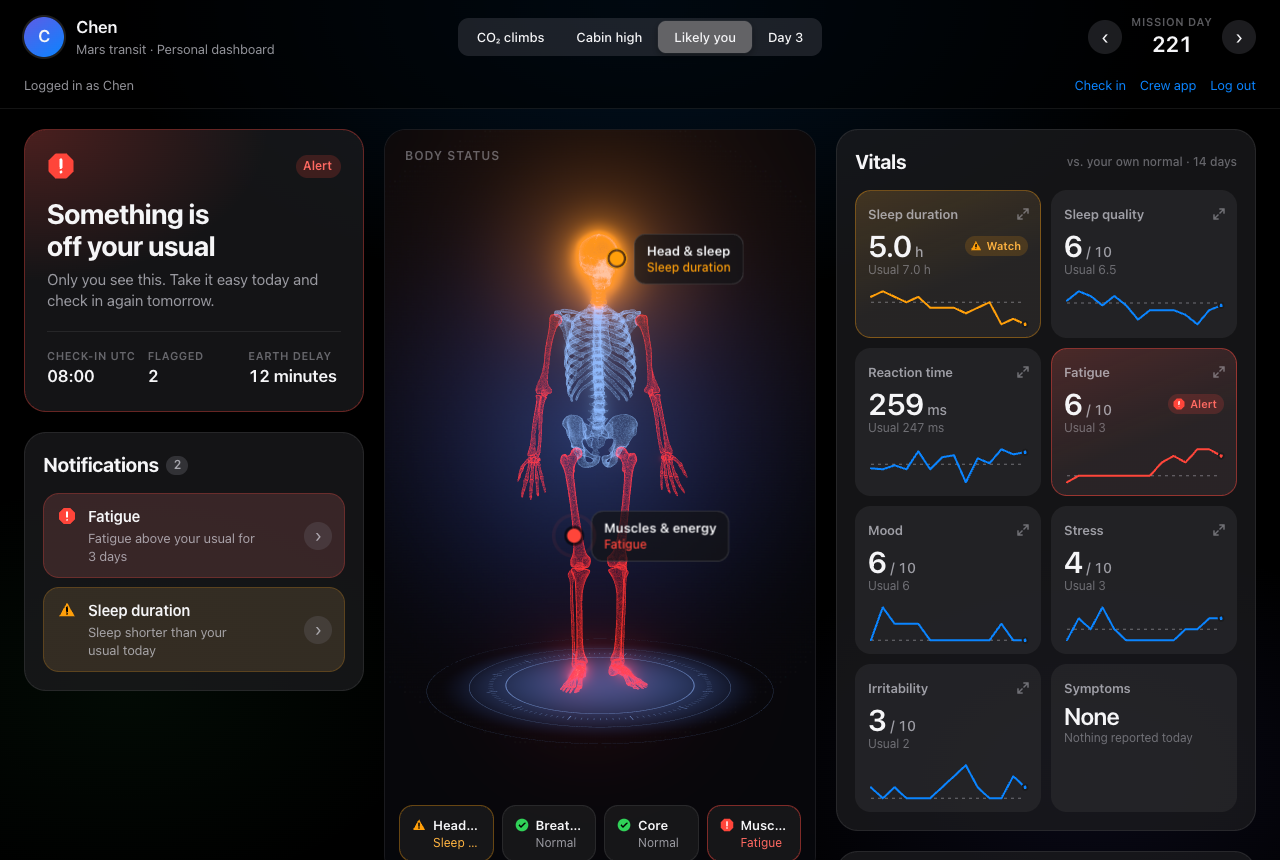
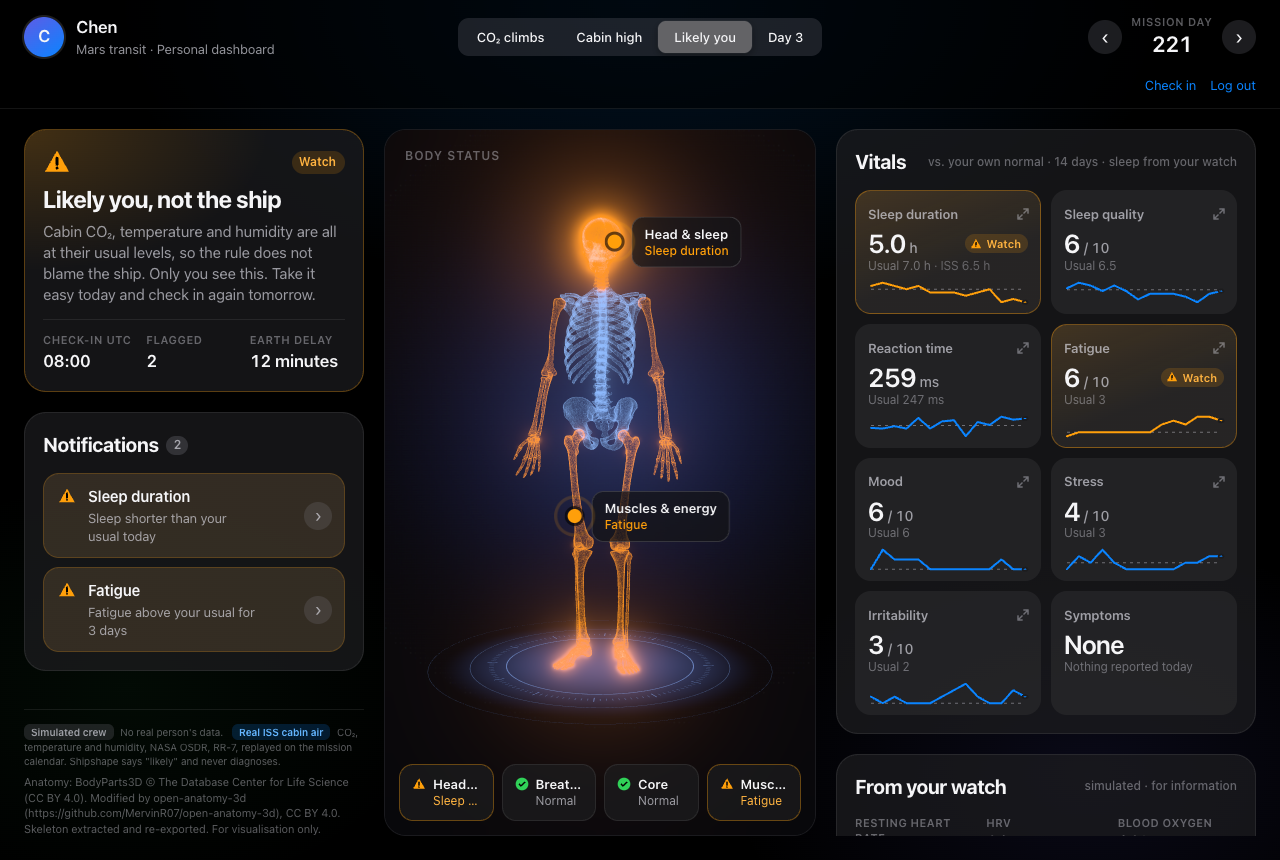
Document the cabin factors, NASA risks and ISS crew comparison
SPEC: three cabin factors and the readings each can explain, the ship rule
and the hold per factor, readings of the plan (comfort range as trigger,
irritability kept on CO2, "Likely you, not the ship", ISS figures as a
reference only), evidence split by kind of day, real cabin days per factor,
simulated crews beside ISS crews, the NASA Human System Risks map, limits.

CITATIONS: every new source quoted verbatim (NASA-STD-3001 Vol 2 [V2 6012],
[V2 6013], OCHMO-TB-003 [V2 6022], OCHMO-TB-004 Rev D, NASA risk pages,
Jones et al. 2022 abstract), all marked team check pending. README, CLAUDE.md,
AI use log, and the day-221 dashboard screenshot updated.

diff --git a/docs/SPEC.md b/docs/SPEC.md
@@ -39,6 +39,7 @@ ISS telemetry for the Rodent Research 7 payload from the NASA OSDR Environmental
 - `co2Mean` is the mean over the 24 h before the 08:00 UTC check-in; null when fewer than 12 hours have data.
 - CO₂ is published in ppm and converted with mmHg = ppm × 760 / 1e6. That is the only arithmetic besides averaging.
 - Dropped, not repaired: samples under 400 ppm and runs of one identical value lasting 6 h or more (placeholders from before the hardware reached the station).
+- `temp` (°C) and `rh` (% relative humidity) are the same samples' ISS-side temperature and humidity, averaged over the same hours. A sample dropped for its CO₂ takes its temperature and humidity with it; they have no filter of their own, and every hourly value across the 10 traces lies within 18.7–24.7 °C and 33–61%. The rule reads them only on days with a CO₂ mean (12 hours or more of data).
 - The real dates are relabeled as mission days. Nothing else is shifted.
 
 ### `crew.json` (simulated)
@@ -89,26 +90,29 @@ A reading drifts when it is 2.5 spreads from the median in the unwanted directio
 
 **A slow change.** A decline too slow to jump out on any one day becomes the rolling normal, so mood and stress are also compared with the person's **starting normal**: the median and spread of their first 14 check-ins. When today's own normal (the rolling one above) has moved 2 or more starting spreads the unwanted way, the indicator is off as a slow change ("your usual mood has slipped from 7/10 to 5/10 since your first 14 check-ins"). Those days stay in the rolling normal, so the flag does not switch itself off. Only mood and stress are checked: they are the isolation signals and never enter the ship rule, while a week of high CO₂ itself moves the usual of the CO₂-linked indicators and would read as a slow change. Both numbers are demo parameters, set on the tuning seeds.
 
-| Indicator | Unwanted direction | Counts toward a ship alert | Board |
+| Indicator | Unwanted direction | Cabin factor that can explain it | Board |
 | --- | --- | --- | --- |
-| Sleep duration | Low; also under 6 h on 3 of the last 7 nights | Yes | Shared |
-| Sleep quality | Low | Yes | Shared |
-| Fatigue | High | Yes | Shared |
-| Irritability | High | Yes | Shared |
-| Symptoms | Any tick | Headache only | Shared |
-| Alertness (response speed) | Low | No | Shared |
+| Sleep duration | Low; also under 6 h on 3 of the last 7 nights | CO₂, temperature | Shared |
+| Sleep quality | Low | CO₂, temperature | Shared |
+| Fatigue | High | CO₂ | Shared |
+| Irritability | High | CO₂ | Shared |
+| Symptoms | Any tick | Headache: CO₂. Congestion, dry or sore eyes: humidity. Dizziness, nausea: none | Shared |
+| Alertness (response speed) | Low | None | Shared |
 | Stress | High | Never | Private |
 | Mood | Low | Never | Private |
 
+The links come from NASA's own sources (`docs/CITATIONS.md`): its CO₂ brief reports headaches with fatigue and malaise at 2.8–4.5 mmHg, fatigue, decreased sleep and nausea above 4.5 mmHg, and poor sleep and frontal headaches at 3.5 mmHg (OCHMO-TB-004 Rev D, anecdotal evidence from earlier missions); its sleep risk names temperature among the "environmental factors" that "inhibit sleep and impact well-being in space"; its cabin standard expects "dry, stuffy and/or irritated mucous membranes" outside its humidity range (NASA-STD-3001 Vol 2 [V2 6012]). Irritability is the exception: the plan links it to CO₂, NASA's list does not.
+
 ### Cabin
 
-The cabin's baseline is the median of its last 14 normal days. The cabin is "above baseline" when the 24 h mean is 0.5 mmHg or more above it. Separately, a 1-hour average above 3 mmHg is flagged (NASA-STD-3001 Vol 2 [V2 6004]).
+The rule checks three cabin factors, all 24 h means from the same ISS telemetry.
 
-The air is a suspect when it is above baseline or its 24 h mean is over 3 mmHg. A cabin that stays high for weeks becomes its own baseline; the limit check keeps it a suspect.
+- **CO₂.** The cabin's baseline is the median of its last 14 normal days. The cabin is "above baseline" when the 24 h mean is 0.5 mmHg or more above it. Separately, a 1-hour average above 3 mmHg is flagged (NASA-STD-3001 Vol 2 [V2 6004]). CO₂ is a suspect when it is above baseline or its 24 h mean is over 3 mmHg. A cabin that stays high for weeks becomes its own baseline; the limit check keeps it a suspect.
+- **Temperature and humidity.** A suspect when the 24 h mean is outside the comfort range NASA-STD-3001 Vol 2 cites for comfort and performance, 20–25 °C and 30–60% ([V2 6013], rationale). Outside the crew health limits, 18–27 °C and 25–75% ([V2 6012]), they are shown as over the limit (red). They have no baseline of their own: a cabin's usual temperature is held by its thermal control, and NASA's ranges are absolute.
 
 ### Ship or me
 
-1. **Ship:** at least half the crew drift on CO₂-linked indicators today and the air is a suspect (above baseline, or a 24 h mean over 3 mmHg).
+1. **Ship:** a cabin factor is a suspect and at least half the crew drift today on indicators that factor can explain (table above). The alert names every factor that qualifies.
 2. **Me:** one person drifts.
 3. **Shared, not the air:** two or more drift, and the rule cannot blame the air.
 
@@ -195,10 +199,15 @@ These are the places where the plan could be read two ways, or where the build g
 
 - **A slow change is drift too.** The plan's own normal is the last 14 check-ins, which follows a slow decline down, so a slide never shows. Built: mood and stress are also compared with the starting normal, and a slow change opens the same private card and, if it lasts to day 3, the same summary to the flight surgeon, where the privacy table already allows mood and stress. Numbers under "Evidence".
 - **"Watch" is one day of drift.** The plan's indicator table says Watch after 3 or more days below normal; its demo needs a private card before day 3. Built: one day of drift opens a private card (tier 1), three days sends the summary (tier 3). The cited "under 6 h on 3 nights" rule is kept as written.
-- **A ship alert is held.** Once raised, it stays on while the cabin is above baseline, even on a day when fewer than half the crew drift. Without this the banner flickered during the 8-day rise in the real trace.
+- **A ship alert is held.** Once raised, it stays on while the factor behind it is still a suspect, even on a day when fewer than half the crew drift. Without this the banner flickered during the 8-day rise in the real trace. An alert raised for one factor ends when that factor recovers, even if another is a suspect.
+- **Temperature and humidity are ship causes too.** The plan names only CO₂. Built: the same telemetry's temperature and humidity are checked against NASA's ranges, each with its own readings (table under "Own normal"), and the Ship screen, the summaries and the dashboard say which factor is blamed and which are ruled out. On the 10 real traces they rarely leave NASA's comfort range (numbers under "Evidence"), so on real ISS data the call is about CO₂ and the other two are ruled out by name.
+- **The comfort range is the trigger, not the health limit.** NASA's rationale for [V2 6013] says operating outside 20–25 °C and 30–60% "will cause performance decrements"; the wider health limits of [V2 6012] would leave a cabin at 19 °C unchecked. The figure behind [V2 6012] is read as the box between its corners (18 °C / 75% and 27 °C / 25%).
+- **Irritability stays linked to CO₂.** NASA's CO₂ brief lists headache, fatigue, malaise, poor or decreased sleep and nausea, not irritability. Dropping it would change every CO₂ result and the seeded demo, so it stays, and the check-in says so. Nausea, in NASA's list above 4.5 mmHg, is not added: the rule keeps headache as the one symptom with a published dose-response.
 - **Day 3 counts per likely cause.** When a ship alert ends and someone is still off, their count restarts at day 1 as "me". This is what makes the golden path's "day 3" land two days after the air clears.
 - **One person drifting under high CO₂ is "me".** The card says the cabin is above its usual level and that the rule does not blame the air yet.
-- **Headache is the only symptom that counts toward a ship alert.** It is the one with a published dose-response. Other ticks open a private Watch.
+- **"Likely you, not the ship" says why.** The personal dashboard's card for a "me" day names the verdict and, when CO₂, temperature and humidity are all at their usual levels, says so. Its indicators turn red on the engine's own day 3 of the current likely cause (or tier 3), the day a summary goes to Earth, as the crew board does; a run that only straddles a change of cause stays orange.
+- **Real ISS crews are a reference, never a threshold.** The sleep tile shows the published ISS figure (about 6.5 h, Jones et al. 2022) beside the person's own usual, for context. The rules still compare each person only with their own normal.
+- **Headache is the only symptom that counts toward a CO₂ ship alert.** It is the one with a published dose-response. Congestion and dry or sore eyes count toward a humidity alert ([V2 6012]); dizziness and nausea open a private Watch only.
 - **Check-in sliders start unset.** A slider that starts at the person's usual lets a rushed check-in report "as usual" without anyone choosing it, which is the under-reporting the game is meant to counter. Built: each slider starts unset and is rated before the usual is shown, or set to the usual with one explicit tap ("Set them to my usual"). Submit waits until every slider is set.
 - **The reaction test counts a lapse at 355 ms**, as PVT-B, the brief test behind the ISS Reaction Self-Test, does (Basner, Mollicone and Dinges 2011).
 - **The live reaction test is shown, not compared.** The presenter has no baseline, and the result is never stored, so it does not feed the rules.
@@ -242,13 +251,48 @@ Chen's sleep loss starts on day 219, while the ship alert is still on, so the ap
 
 ## Evidence
 
-`scripts/backtest.py` runs 200 simulated crews over 10 real ISS CO₂ traces through the app's own engine (`scripts/engine_cli.ts`), with seven scenarios. The numbers are in `public/data/backtest.json` and on the challenge page (`/challenge`); the Ship screen quotes the base case in one line, read from the same file.
+`scripts/backtest.py` runs 200 simulated crews over 10 real ISS cabin traces (CO₂, temperature, humidity) through the app's own engine (`scripts/engine_cli.ts`), with seven scenarios. The numbers are in `public/data/backtest.json` and on the challenge page (`/challenge`); the Ship screen quotes the base case in one line, read from the same file.
 
 - A ship event is a run of days at least 1 mmHg above that trace's median. An individual event is an injected 4-7 day sleep loss, run of headaches or stress dip.
 - Thresholds were set on seeds 5000-5199; the reported seeds are 1000-1199.
 - Each crew runs over one whole real trace (27-73 days), not 90 days: real data is never stitched or looped.
 - The 10 traces contain 3 distinct CO₂ rises of 1 mmHg or more. That is a small sample, replayed for many crews.
 - Unit tests in `tests/` cover every rule, including "XP never depends on a reading" and "mood never decides ship or me".
+
+### Right cause, by kind of day
+
+The headline accuracy pools two kinds of day. Split, in the base case on the reported seeds:
+
+| Kind of day | The right answer | Alerts judged | Right |
+| --- | --- | --- | --- |
+| A CO₂ rise | "the ship" | 260 | 74% |
+| One person's own problem | anything but "the ship" | 924 | 95% |
+| Pooled | | 1,184 | 90% |
+
+The ship-day figure is the one that tests the rule; it falls to 34% when the CO₂ effect is halved and rises to 97% when it is doubled. The challenge page and the Ship screen quote the split, not only the pooled figure.
+
+### Temperature and humidity on real ISS data
+
+Counted by the engine's own cabin status over every day of the 10 traces (416 days with data, September 2014 to January 2021):
+
+| Factor | Days a suspect | Range of daily means |
+| --- | --- | --- |
+| CO₂ | 63 (29 with a 24 h mean over 3 mmHg) | |
+| Temperature (outside 20–25 °C) | 4, all in RR-3 (May 2016, about 19 °C) | 19.0–23.9 °C |
+| Humidity (outside 30–60%) | 0 | 35–49% |
+
+Adding the two checks changed no number in the backtest: no ship alert blamed temperature or humidity, and none was added or lost. No crew effect of temperature or humidity is simulated (there is no published effect size for crews), so the backtest measures what the checks cost, not what they catch. On the ISS, CO₂ is the cabin factor that moves.
+
+### Simulated crews beside real ISS crews
+
+The simulator is not tuned to these figures; the backtest sets them side by side (`meta.issCrews`, `crewStats`):
+
+| | Real ISS crews | Simulated crews (base case, every check-in) |
+| --- | --- | --- |
+| Sleep in flight | about 6.5 h a night (Jones et al. 2022: 24 astronauts on six-month missions, 2,856 Reaction Self-Tests) | 7.2 h |
+| Days with a reported headache | 46 of 1,716 days, 2.7% (NASA OCHMO-TB-004: case reports, ISS Expeditions 2–31, 49 astronauts) | 2.1% |
+
+Headaches come out close. The simulated crews sleep about 40 minutes more than ISS astronauts reported, so on real crews the cited "under 6 h on 3 of the last 7 nights" rule would fire more often. Retuning the simulator would change the seeded demo and every number above, so it is stated instead.
 
 ### Alert load against one alert per person
 
@@ -304,9 +348,32 @@ In the base case the check leaves accuracy at 0.903 (0.904 before) and raises ne
 
 One crew member never ticks a symptom and reports every slider one point better than it is. CO₂ rises missed go from 23% to 30%, and personal events missed from 8% to 12%. The rule needs half the crew, so one silent person makes a ship alert harder to reach. The game rewards the report, not the reading, to make silence less likely; whether it does is not measured here.
 
+## NASA Human System Risks
+
+`src/data/hrp.ts` links every reading to the NASA Human System Risk it informs, with the titles and pages as on NASA's [Human System Risks](https://www.nasa.gov/hhp/human-system-risks/) list (read 15 Nov 2026). The check-in shows the link under each item's "why we ask"; the challenge page lists them all with what NASA's sources say. No rule reads the file.
+
+| Reading | NASA Human System Risk |
+| --- | --- |
+| Sleep duration and quality, alertness | Sleep Loss, Circadian Desynchronization, and Work Overload |
+| Fatigue | Sleep Loss; CO₂ Risk |
+| Mood and stress | Behavioral Health Risk |
+| Irritability | Behavioral Health Risk; Team Risk |
+| Headache | CO₂ Risk; SANS Risk (fluid shift) |
+| Congestion, dry or sore eyes | Inflight Medical Conditions (the humidity link is [V2 6012]) |
+| Dizziness, nausea | Sensorimotor Risk |
+| Exercise | Bone Fracture; Muscle Risk; Aerobic Risk |
+| Cabin CO₂ | CO₂ Risk |
+| Cabin temperature | Sleep Loss (temperature is among the factors that inhibit sleep) |
+| Cabin humidity | Inflight Medical Conditions; no risk of its own |
+| Radiation dose | Radiation Carcinogenesis |
+| Distance from Earth (message delay) | Earth Independent Human-Systems Operations (EIHSO Risk) |
+| Watch: heart rate, HRV / blood oxygen (shown only) | CV Risk / Hypoxia |
+
 ## Limits
 
-- The crew is simulated. Only the cabin data and the thresholds are real.
+- The crew is simulated. Only the cabin data (CO₂, temperature, humidity) and the thresholds are real.
+- Temperature and humidity are checked but cannot be validated here: on the real traces they rarely leave NASA's comfort range, and no crew effect of them is simulated.
+- The simulated crews sleep about 40 minutes more than ISS astronauts reported; the comparison is on the challenge page.
 - The CO₂ series is the ISS-side telemetry published for a rodent-research payload. It may differ from a cabin-wide average. Its rise starts as a step at 00:00 UTC on 2018-08-20 (2.6 to 4.9 mmHg), it steps down at 00:00 UTC the next day (4.9 to 4.3 mmHg), and it holds at 4.94-4.95 mmHg for several hours at a time. These may be artifacts of how the data was recorded or published; the 1-hour peak that flags day 212 comes from them. The Ship screen says so, and the series is replayed as published.
 - As context, not cause: NASA's ISS Daily Summary Report of 16 Aug 2018, four days before the rise, describes a "split atmosphere" test of the Lab CO₂ removal assembly (CDRA), planned to last at least 5 days. NASA's reports don't say whether the two are linked, and the app does not claim they are.
 - Headache risk follows the published odds per check-in day; the paper used 7-day averages.
@@ -321,4 +388,4 @@ One crew member never ticks a symptom and reports every slider one point better 
 - A deploy to Vercel and the `v1.0-submission` tag.
 - README sections for the challenge map and the Antarctic case (both are in the app: Demo controls → How it answers the challenge), and the Antarctic sources in `docs/CITATIONS.md`.
 - The 30-second video.
-- Opening each source in `docs/CITATIONS.md` before quoting it on the project page.
+- Opening each source in `docs/CITATIONS.md` before quoting it on the project page; the ones under "Added with the cabin factors and NASA risks" were read by an AI agent only and are on screen in this branch.

diff --git a/docs/CITATIONS.md b/docs/CITATIONS.md
@@ -8,7 +8,7 @@ Sources behind the rules and the "why" text. The links come from [plan v0.1](pla
 | Headache rule, simulator | Odds of a reported headache doubled per 1 mmHg of CO₂; risk below 1% needs a 7-day average under 2.5 mmHg | [Law et al. 2014, J Occup Environ Med 56(5):477-83](https://doi.org/10.1097/JOM.0000000000000158) (full reference below) | Abstract only: read on PubMed (PMID 24806559) on 14 Nov 2026; both claims are in it. Full text not read |
 | Mood is not in the ship rule | No CO₂ evidence for mood | [Smithsonian on Law et al. 2014](https://www.smithsonianmag.com/daily-planet/why-living-space-can-be-pain-head-180951507/) | No |
 | Reaction test | PVT-B, flown as the ISS Reaction Self-Test, 3 minutes | [NASA Spinoff 2013](https://spinoff.nasa.gov/Spinoff2013/hm_1.html) | No |
-| Sleep rule | Under 6 h linked to slower responses and higher stress | [Sleep deficiency in spaceflight: the ISS Reaction Self Test study](https://pmc.ncbi.nlm.nih.gov/articles/PMC8919197) | No |
+| Sleep rule | Under 6 h linked to slower responses and higher stress | [Sleep deficiency in spaceflight: the ISS Reaction Self Test study](https://pmc.ncbi.nlm.nih.gov/articles/PMC8919197) | Abstract read by an AI agent on 15 Nov 2026 (see "Added with the cabin factors" below); team check pending. The PMC page served a bot check, so the full text was not read |
 | Game design | Astronauts under-report symptoms for fear of losing missions | [Institute of Medicine, Safe Passage (2001)](https://www.nationalacademies.org/read/10218/chapter/8) | No |
 | Framing | Behavioral support in astronaut health care | [NASA: how astronaut health care works in space](https://www.nasa.gov/missions/station/faq-the-real-story-about-astronaut-health-care-in-space) | No |
 | Game design | Engagement does not guarantee benefit | [JMIR Mental Health 2019](https://pmc.ncbi.nlm.nih.gov/articles/PMC6617915/), [npj Digital Medicine 2021](https://pmc.ncbi.nlm.nih.gov/articles/PMC7878769), [MDPI Information 17(2):168](https://www.mdpi.com/2078-2489/17/2/168) | No |
@@ -44,6 +44,25 @@ Found during the judge-fixes work on 14-15 Nov 2026 (by an AI subagent and by we
 | Reaction test lapse | PVT-B counts a lapse at 355 ms; the app's test counts lapses the same way | Basner M, Mollicone DJ, Dinges DF. Validity and sensitivity of a brief psychomotor vigilance test (PVT-B) to total and partial sleep deprivation. *Acta Astronautica* 2011;69(11-12):949-959 | Yes: opened by Frantisek Kares on 15 Nov 2026 |
 | Exercise "why we ask" on the check-in | In spaceflight, weight-bearing bones lose on average 1% to 1.5% of mineral density per month | [NASA, The Human Body in Space](https://www.nasa.gov/humans-in-space/the-human-body-in-space/); also [HRP Bone Fracture evidence report (2024)](https://humanresearchroadmap.nasa.gov/evidence/reports/Bone%20Fracture%20Evidence%20Report_07-18-2024.pdf) | Yes: NASA page opened by Frantisek Kares on 15 Nov 2026 |
 | Exercise target (120 min a day) | ISS crews exercise about two hours a day; the schedule allows 2.5 hours a day, 6 days a week, including setup | [NASA, Counteracting Bone and Muscle Loss in Microgravity](https://www.nasa.gov/missions/station/iss-research/counteracting-bone-and-muscle-loss-in-microgravity/); also [NASA OCHMO-TB-031, Exercise Overview](https://www.nasa.gov/wp-content/uploads/2023/12/ochmo-tb-031-exercise-overview.pdf) | Yes: NASA page opened by Frantisek Kares on 15 Nov 2026 |
+
+## Added with the cabin factors and NASA risks
+
+Found and read by an AI agent (Claude) on 15 Nov 2026, on branch `worktree-cabin-factors-hrp`. Every claim below is a verbatim quote from the page or PDF named; **none has been opened by the team yet**. Open each link and confirm the quote before this branch is merged or deployed, then change "Team check pending" to who checked it and when.
+
+| Used for | Claim in the app | Source and exact words | Checked |
+| --- | --- | --- | --- |
+| Temperature and humidity limits ([V2 6012]) | Crew health limits 18–27 °C and 25–75% humidity; outside them, dry or irritated eyes and nose, thermal discomfort, lower performance | NASA-STD-3001 Vol 2, Rev C (2022) and Rev F (approved 2026-07-14, p. 54): "[V2 6012] The system shall maintain levels of cabin humidity and temperature within the boundaries of the Operating Limits as shown in Figure 6.2-2—Crew Health Environmental Limits…" Rationale: "Figure 6.2-2 is based on ASHRAE 55 and anchored at 18°C and 75% humidity on the upper left corner and 27 °C and 25% humidity on the lower right corner. Operations outside of these boundaries may cause crewmembers to experience health impacts (dry, stuffy and/or irritated mucous membranes), skin rashes (due to microbial growth at high humidity levels) thermal discomfort (overheating depending on tasks), and/or decreased performance." [Rev C PDF](https://www.nasa.gov/wp-content/uploads/2020/10/2022-04-08_nasa-std-3001_vol_2_rev_c_final.pdf), [Rev F PDF](https://standards.nasa.gov/system/files/tmp/NASA-STD-3001%20Vol%202%20Rev%20F.pdf) | AI read both PDFs; team check pending |
+| Comfort range, the rule's trigger ([V2 6013]) | 20–25 °C and 30–60% humidity support comfort and performance | Same document, [V2 6013] Crew Performance Environmental Zone, rationale (Rev F p. 55–56): "Operating outside of this zone will cause performance decrements and impact productivity." … "Studies of office working environments and OSHA recommendations generally find these atmospheric parameters (20°C - 25°C and 30-60% humidity) to support human comfort and performance" | AI read; team check pending. The zone itself is a figure; the app uses the numbers its rationale cites |
+| The cabin should alert on temperature and humidity ([V2 6022]) | Context for checking all three factors | [NASA OCHMO-TB-003 Rev A, Habitable Atmosphere (30 Nov 2023)](https://www.nasa.gov/wp-content/uploads/2023/12/ochmo-tb-003-habitable-atmosphere.pdf): "[V2 6022] Atmospheric Monitoring and Alerting Parameters The system shall alert the crew locally and remotely when atmospheric parameters, including atmospheric pressure, humidity, temperature, ppO2, and ppCO2 are outside safe limits." | AI read; team check pending. Not yet quoted on screen |
+| CO₂-linked readings | Headaches with fatigue and malaise, poor sleep, nausea at higher CO₂ | [NASA OCHMO-TB-004 Rev D, Carbon Dioxide](https://www.nasa.gov/wp-content/uploads/2023/12/ochmo-tb-004-carbon-dioxide.pdf): "Anecdotal evidence from previous spaceflight missions have found the following associations between CO2 levels and symptomology: • Headaches at levels between 2.8-4.5 mmHg; worsening with increasing levels of CO2 accompanied by fatigue and malaise flushing. • Fatigue malaise, decreased sleep, and nausea reported at levels above 4.5 mmHg. … • Chronic cough, poor sleep, blurred vision, and frontal headaches reported at 3.5 mmHg." | AI read; team check pending (the team opened this brief earlier for the 3 mmHg limit only) |
+| Headache base rate (simulated crews beside ISS crews) | 19 of 49 astronauts; 46 of 1,716 days | Same brief: "19 of the 49 astronauts reported experiencing headaches (~38.7%)." … "A retrospective analysis of the case reports found a total of 46 days with reported headaches and 1,670 days of non-reports (no headaches observed)." | AI read; team check pending |
+| Why the 3 mmHg limit | "to keep incidence of headaches below 1.4%" | Same brief: "the current NASA-STD-3001 Volume 2 Rev D [V2 6004] limits the average 1-hour CO2 partial pressure (ppCO2) in the habitat volume to no more than 3 mmHg to keep incidence of headaches below 1.4%." | AI read; team check pending |
+| Fluid shift causes headaches too (Ship screen, challenge page) | One headache never blames the air | Same brief: "Fluid shift due to decreased venous and lymphatic drainage in microgravity largely contributes to symptoms similar to CO2 over-exposure, including headaches." | AI read; team check pending. This claim was on screen before without a source |
+| ISS crews' sleep (dashboard sleep tile, check-in, challenge page) | About 6.5 h in flight; under 6 h with slower responses, more stress, higher workload | Jones CW, Basner M, Mollicone DJ, Mott CM, Dinges DF. Sleep 2022;45(3):zsac006, [PubMed 35023565](https://pubmed.ncbi.nlm.nih.gov/35023565/), abstract: "N = 24 astronauts before, during, and after 6-month missions aboard the International Space Station (ISS)" … "N = 2,856 RSTs" … "astronauts reported sleeping ~6.5 h in-flight" … "sleep durations <6 h were associated with significant reductions in psychomotor response speed, elevated stress, and higher workload." | AI read the abstract only; team check pending |
+| NASA Human System Risks (check-in links, challenge page) | Risk titles and pages | [NASA Human System Risks](https://www.nasa.gov/hhp/human-system-risks/), 30 risks, titles copied verbatim into `src/data/hrp.ts` | AI read the list and four risk pages; team check pending |
+| Temperature and sleep | Temperature among what disturbs sleep in space | [NASA sleep risk page](https://www.nasa.gov/directorates/esdmd/hhp/risk-of-performance-decrements-and-adverse-health-outcomes-resulting-from-sleep-loss-circadian-desynchronization-and-work-overload/): "Evidence from short and long-duration missions and other relevant environments suggests that environmental factors (e.g., noise, temperature, vibration, and light) inhibit sleep and impact well-being in space." Also: "Together, these two aspects lead to fatigue and errors while performing tasks." | AI read; team check pending |
+| Isolation and mood | Behavioral health risk text on the challenge page | [NASA behavioral health risk page](https://www.nasa.gov/directorates/esdmd/hhp/behavioral-health-risk/): "Exposure to the isolation and confinement of spaceflight can result in decrements in cognitive and behavioral functioning." | AI read; team check pending |
+| Distance from Earth | EIHSO risk text on the challenge page | [NASA EIHSO risk page](https://www.nasa.gov/directorates/esdmd/hhp/eihso-risk/): "Most importantly, as the distance from Earth increases, crew will need to be more independent and be able to handle greater operational complexity." | AI read; team check pending |
 
 ## Radiation and mission settings
 

diff --git a/CLAUDE.md b/CLAUDE.md
@@ -43,7 +43,7 @@ scripts/*.py ──> public/data/{cabin,crew,backtest}.json ──> src/state.ts
 Pure functions with no React and no I/O. `runEngine(input)` in `escalation.ts` returns one `DayResult` per day by composing:
 
 - `baseline.ts` and `deviation.ts`: each person's own normal (robust median/MAD), their starting normal (first 14 check-ins, for slow changes in mood and stress), and which indicators drift.
-- `shipOrMe.ts`: cabin status and the ship / me / shared decision.
+- `shipOrMe.ts`: cabin status (CO₂, temperature, humidity: three factors from the same ISS telemetry) and the ship / me / shared decision. Each indicator lists the factors that can explain it (`linkedTo` in `deviation.ts`, `SYMPTOM_LINKS` for symptoms); a ship alert names its `causes` and is held only while one of them stays a suspect.
 - `escalation.ts`: episodes, day counts and tiers 0–4, flight-surgeon summaries.
 - `privacy.ts`: the only path from engine output to another viewer's screen. UI code must not read another person's `PersonStatus` directly.
 - `gravity.ts` and `mission.ts`: shown, never judged. Exercise against its daily target (the core and limbs zones on the dashboard) and the radiation dose budget; neither has a tier or any part in ship or me.
@@ -64,7 +64,7 @@ XP, weekly streak with shield days, quests. Game functions cannot read check-in 
 
 ### State and UI
 
-`src/state.tsx` (`StoreProvider` / `useStore`) loads the four JSON files (including `accounts.json`), holds the logged-in `user`, merges live check-ins, runs the engine, and holds the demo controls (role, mission day, comm delay). Live check-ins persist only in `localStorage` under `shipshape.v1`; live reaction-test results stay in memory and are never stored. The check-in's simulated wrist wearable (`src/data/watch.ts`) reads the simulated crew record for that person and day: it fills in sleep and exercise, and its vitals (`CheckIn.watch`: heart rate, HRV, blood oxygen, breathing, skin temperature) are shown for information. No rule may read `watch`; a test checks it.
+`src/state.tsx` (`StoreProvider` / `useStore`) loads the four JSON files (including `accounts.json`), holds the logged-in `user`, merges live check-ins, runs the engine, and holds the demo controls (role, mission day, comm delay). Live check-ins persist only in `localStorage` under `shipshape.v1`; live reaction-test results stay in memory and are never stored. The check-in's simulated wrist wearable (`src/data/watch.ts`) reads the simulated crew record for that person and day: it fills in sleep and exercise, and its vitals (`CheckIn.watch`: heart rate, HRV, blood oxygen, breathing, skin temperature) are shown for information. No rule may read `watch`; a test checks it. `src/data/hrp.ts` links every reading to the NASA Human System Risk it informs (titles and pages as on nasa.gov); it is shown on the check-in and the challenge page, and no rule reads it either.
 
 `src/main.tsx` picks one of five pages by pathname (`src/auth/paths.ts`), without a router:
 
@@ -96,7 +96,7 @@ These come from the plan and are easy to break by accident:
 - **Label simulated data everywhere.** Every screen showing the crew carries the "simulated" marker; real data carries its source.
 - **The app says "likely" and never diagnoses.** No AI-generated text in decisions or summaries; summaries come from fixed templates.
 - **Each dashboard and check-in shows only the logged-in person.** The crew app (`/app`) is for the medical officer (as the crew medical officer) and the flight surgeon (the same access, plus summaries); everyone else's data reaches it through `privacy.ts`.
-- **Mood and stress are private.** They appear on the crew board only as a count with no names, and never count toward a ship alert. Only headache among symptoms counts toward one.
+- **Mood and stress are private.** They appear on the crew board only as a count with no names, and never count toward a ship alert. Among symptoms, only headache counts toward a CO₂ alert, and only congestion and dry or sore eyes toward a humidity alert.
 - **No leaderboards, no reward tied to a reading, no celebration on an alert.**
 - **Sources:** `docs/CITATIONS.md` tracks whether a human has opened each source. Do not mark one as checked or add a sourced claim to UI text unless it has been verified. Log AI contributions in `docs/AI_USE_LOG.md`.
 - Charts follow one-series, one-axis conventions with status shown by shape and word as well as color, and need to work at 390 px width. Every page is dark only, with `/dashboard` as the colour reference: `src/styles.css` (crew app) uses the same values as the `--d-*` tokens in `dashboard.css`.

diff --git a/README.md b/README.md
@@ -1,6 +1,6 @@
 # Shipshape
 
-**Is it me, or the ship?** A daily check-in for a crew on a long mission. When several people feel off at once, Shipshape checks real ISS cabin CO₂ before blaming anyone, and tells each astronaut whether a bad day is likely them or the ship. It rewards honest reporting, never the reading.
+**Is it me, or the ship?** A daily check-in for a crew on a long mission. When several people feel off at once, Shipshape checks the real ISS cabin air (CO₂, temperature and humidity) before blaming anyone, and tells each astronaut whether a bad day is likely them or the ship. It rewards honest reporting, never the reading.
 
 Built for the NASA Space Apps Challenge 2026, "Create Health Monitoring Software for Astronauts on Space Missions". It grew from the team's [plan v0.1](docs/plan-v0.1.md), now superseded by [docs/SPEC.md](docs/SPEC.md).
 
@@ -12,14 +12,17 @@ Built for the NASA Space Apps Challenge 2026, "Create Health Monitoring Software
 
 | Real | Simulated | Estimated |
 | --- | --- | --- |
-| ISS cabin CO₂, temperature and humidity from NASA's Open Science Data Repository (mission RR-7; source, API URL and SHA-256 on screen), and the NASA-STD-3001 3 mmHg limit | The four-person crew and their wrist-wearable readings (sleep, exercise, heart rate, HRV, blood oxygen, breathing, skin temperature), seeded and labelled as simulated on every screen | Radiation dose for the mission setting, from published measurements, against NASA's 600 mSv career limit |
+| ISS cabin CO₂, temperature and humidity from NASA's Open Science Data Repository (mission RR-7 in the demo, 10 missions in the backtest; source, API URL and SHA-256 on screen), NASA-STD-3001's 3 mmHg CO₂ limit and its temperature and humidity ranges, and published results for real ISS crews (sleep, headaches) set beside the simulated crew | The four-person crew and their wrist-wearable readings (sleep, exercise, heart rate, HRV, blood oxygen, breathing, skin temperature), seeded and labelled as simulated on every screen | Radiation dose for the mission setting, from published measurements, against NASA's 600 mSv career limit |
 
-**Evidence**: 200 simulated crews over 10 real ISS CO₂ traces, run through the app's own rules ([SPEC, "Evidence"](docs/SPEC.md#evidence)):
+**Evidence**: 200 simulated crews over 10 real ISS cabin traces, run through the app's own rules ([SPEC, "Evidence"](docs/SPEC.md#evidence)):
 
-- The rule names the right cause, ship or not, in 90% of the alerts raised during an event.
+- On days with a CO₂ rise the rule says "the ship" in 74% of alerts; on days with one person's own problem it says "not the ship" in 95% (90% pooled).
+- Across 416 real ISS days, CO₂ was a suspect on 63 and over NASA's limit on 29; temperature left NASA's comfort range on 4 and humidity on none. On the ISS, CO₂ is the cabin factor that moves; the other two are ruled out by name.
 - During CO₂ rises it opens 72% fewer personal cases than an app with one alert per person, and sends 87% fewer individual summaries to the flight surgeon.
 - A slow mood decline that never jumps on any one day: 94% are flagged against the person's starting normal, and 93% reach the flight surgeon (9% without that check).
 - The known blind spot, stated on the challenge page: a personal problem that starts during a ship alert is put down to the ship until the air recovers (8 of 32 such events never got a personal label).
+- The simulated crews beside real ISS crews: headache days 2.1% against NASA's 2.7%; sleep 7.2 h against about 6.5 h, which we state rather than hide.
+- Every reading links to the NASA Human System Risk it informs, on the check-in and on the challenge page.
 
 | | |
 | --- | --- |

diff --git a/docs/AI_USE_LOG.md b/docs/AI_USE_LOG.md
@@ -17,6 +17,7 @@
 | 15 Nov 2026 | Claude Code (Claude Opus 5.5) | Access: "Logged in as" label removed from `/dashboard`; new `/checkin` page (check-in and Me) for crew; `/app` closed to astronauts; the flight surgeon given the crew medical officer's access plus summaries (summaries-only timeline removed); tests, SPEC, README. Review pass: Me-screen ship link now points to the dashboard, crew-only board code removed, `docs/screenshots/earth-day-223.png` retaken | Team review pending |
 | 15 Nov 2026 | Claude Code (Claude Opus 5.5) | Branch `wearable`: a simulated wrist wearable at check-in (sleep, sleep quality and exercise filled in), simulated vitals in the demo crew (resting heart rate, HRV, blood oxygen, breathing, skin temperature), shown for information on the check-in and in a "From your watch" dashboard panel with 14-day trends, never read by the rules; tests, docs | Team review pending |
 | 15 Nov 2026 | Claude Code (Claude Opus 5.5) | Branch `pin-keypad`: on-screen number keypad for the PIN on the login page (system keyboard suppressed on phones, physical keyboard still works); docs | Team review pending |
+| 15 Nov 2026 | Claude Code (Claude Opus 5.5) | Branch `worktree-cabin-factors-hrp`, after a second AI judge review: cabin temperature and humidity in the ship-or-me rule (NASA-STD-3001 ranges), each cabin factor with its own readings, causes named and ruled out on screen; backtest accuracy split by kind of day, ship alerts by cause, real cabin days per mission, simulated crews beside published ISS figures; NASA Human System Risk links (`src/data/hrp.ts`) on the check-in and challenge page; ISS crews' sleep beside the person's own usual; "Likely you, not the ship" on the dashboard; tests, data, docs. Sources found and read by AI agents, quoted verbatim in `docs/CITATIONS.md` and marked team check pending | Team review pending |
 
 ## What AI does not do in the product
 
